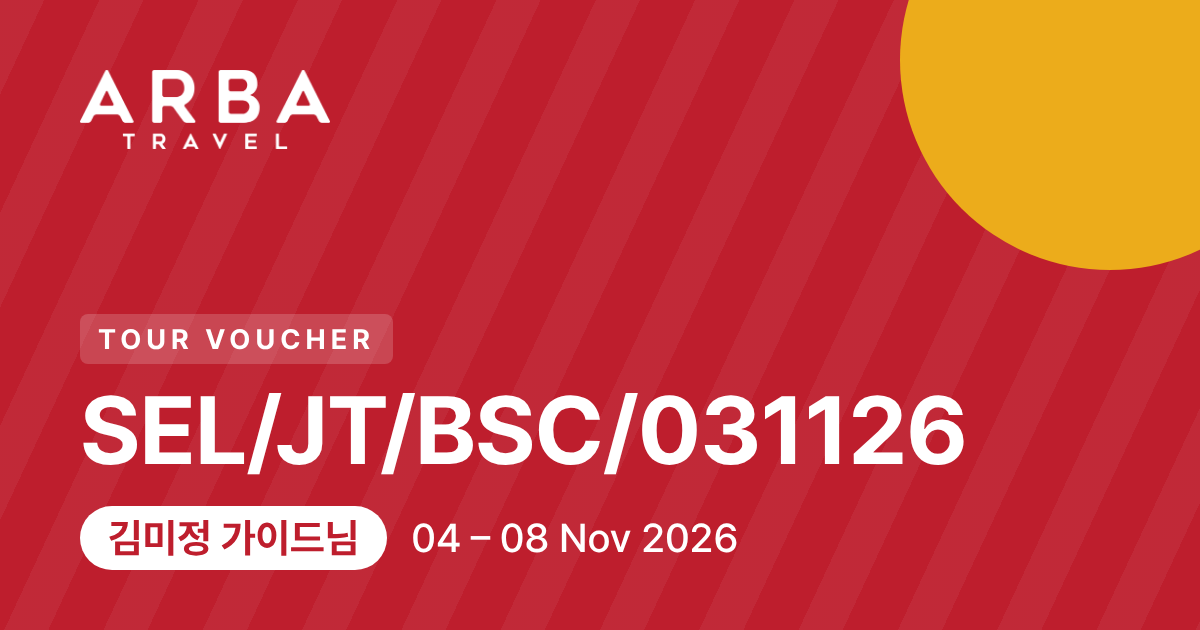
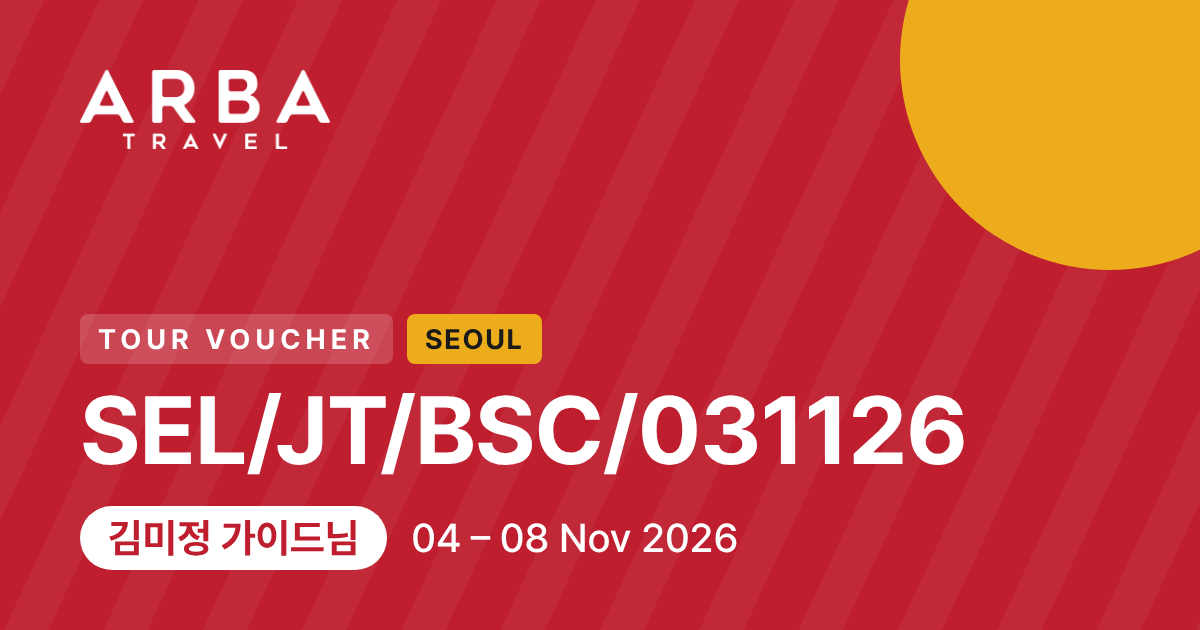
Add destination badge to share card
Claude-Session: https://claude.ai/code/session_01XVa5waLybRz1BjfPFLQyLs

Changed region(s): [[0.3392, 0.4825, 0.4625, 0.6032]]

diff --git a/v/SEL-JT-BSC-031126/index.html b/v/SEL-JT-BSC-031126/index.html
@@ -3,8 +3,8 @@
 <title>SEL/JT/BSC/031126 · Tour Voucher</title>
 <meta property="og:type" content="website"><meta property="og:site_name" content="ARBA Travel Korea">
 <meta property="og:title" content="SEL/JT/BSC/031126 · Tour Voucher">
-<meta property="og:description" content="김미정 가이드님 투어지침서 · ARBA Travel Korea">
-<meta property="og:image" content="https://arbatravelkorea.github.io/img/og_SEL-JT-BSC-031126.png"><meta property="og:image:width" content="1200"><meta property="og:image:height" content="630">
+<meta property="og:description" content="김미정 가이드님 투어지침서 · Seoul · ARBA Travel Korea">
+<meta property="og:image" content="https://arbatravelkorea.github.io/img/og_SEL-JT-BSC-031126.png?v=1793238249"><meta property="og:image:width" content="1200"><meta property="og:image:height" content="630">
 <meta name="twitter:card" content="summary_large_image">
 <meta http-equiv="refresh" content="0;url=https://claude.ai/artifact/HHcp1Xh2ytfgtfk5tmwoMw">
 <style>body{font-family:system-ui,sans-serif;background:#BE1E2D;color:#fff;display:grid;place-items:center;min-height:100vh;margin:0;text-align:center}a{color:#fff;font-weight:700}</style>
